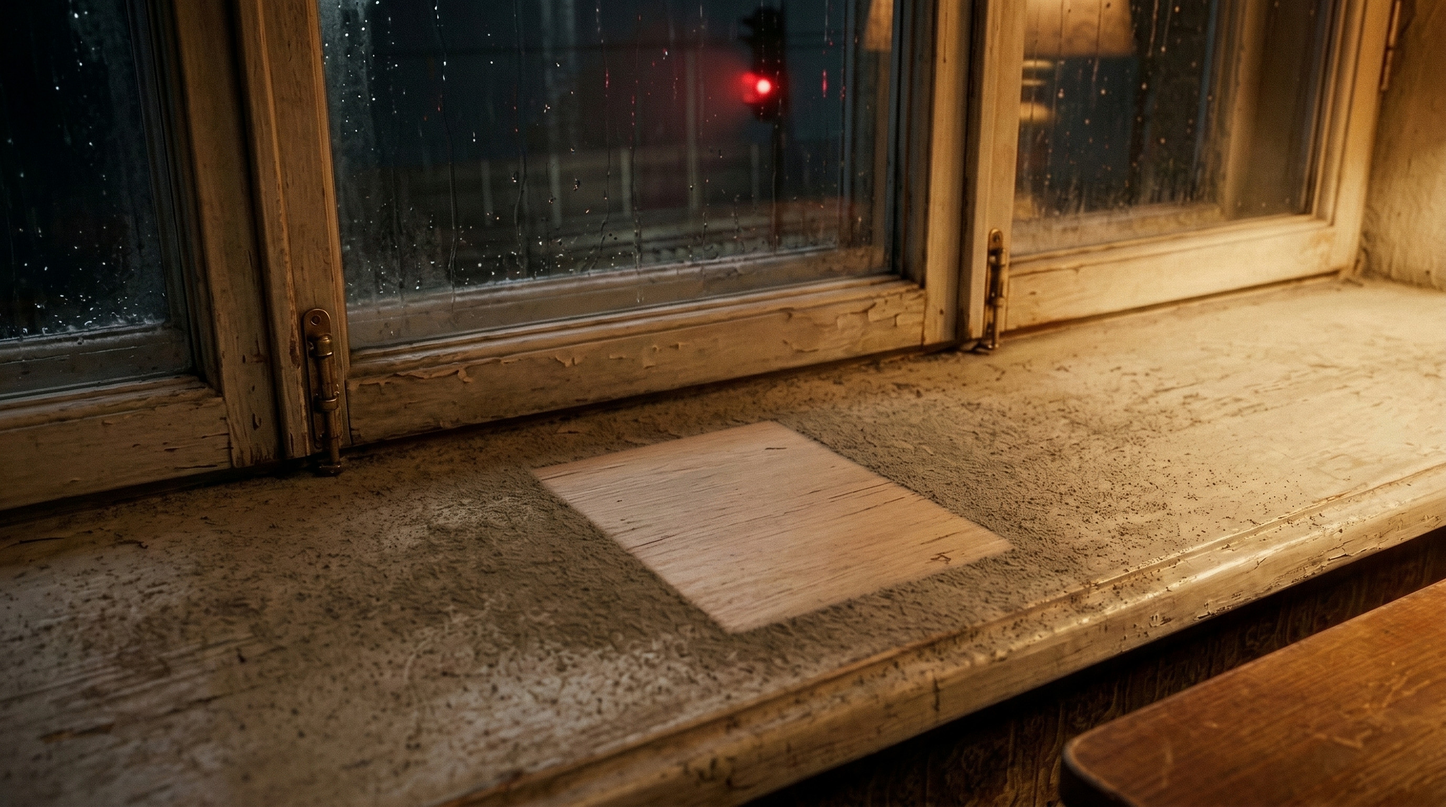
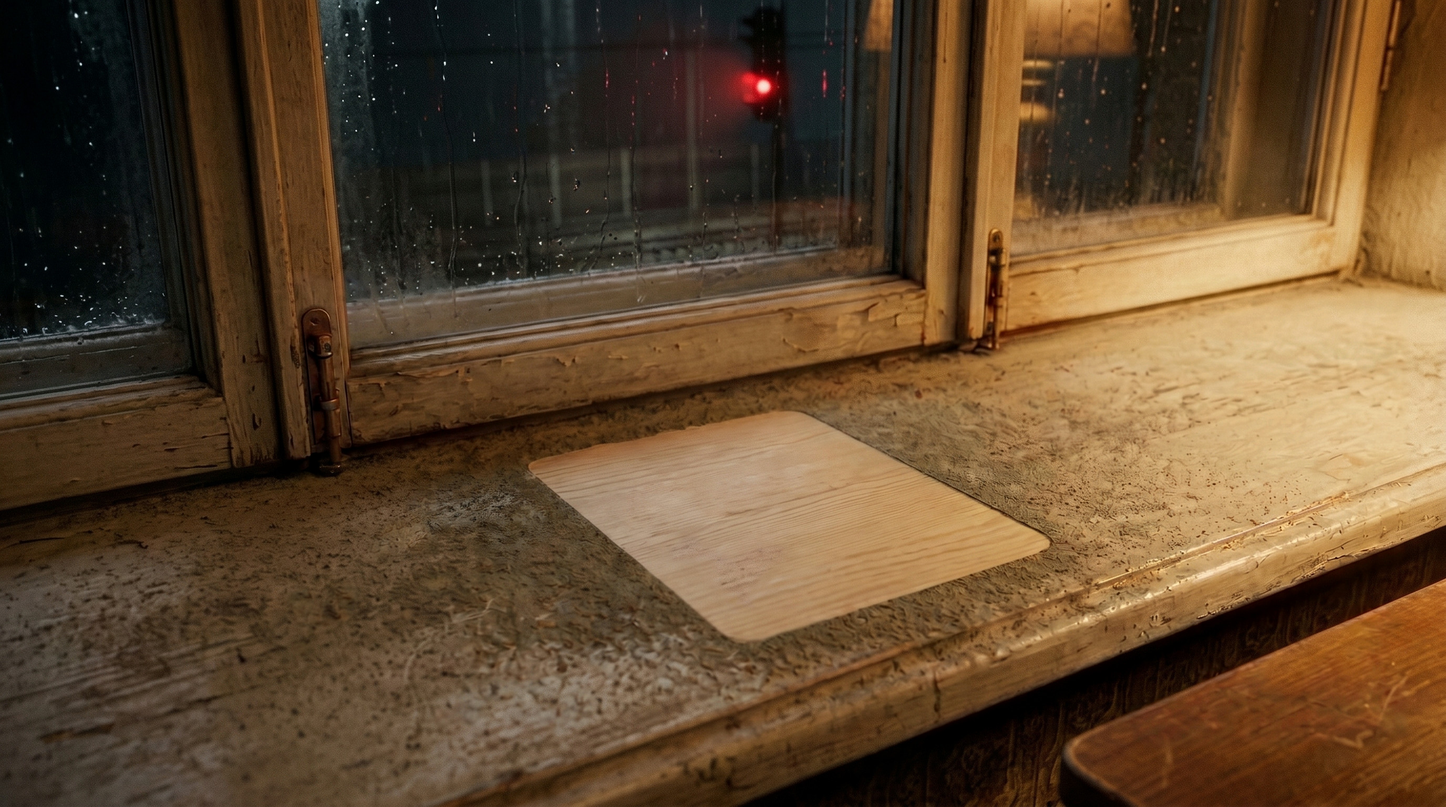
Книга на подоконнике — настоящая, одна и та же во всех сценах
- Фигура, нарисованная кодом, убрана. Книга вписана в сами кадры кухни:
  тёмно-синий потёртый переплёт с закладками, как на крупном плане.
  «Не приходи»: кадры с книгой (ночь/вечер и утро), появляются, когда
  Тихон принёс её; «Приходи»: книга в кадрах всегда (закат и ночь),
  на том же месте подоконника.
- На общем плане книга в одном положении; сдвиг из другого мира виден
  на крупном плане подоконника.
- Картинка осмотра стола в «Приходи»: книга тёмно-синяя, а не бирюзовая.
- След в пыли на крупном плане подоконника — по размеру и углу книги,
  с ровными краями; зона щелчка подогнана.
- Реплики про «лежит криво/наискосок» на общем плане поправлены.

diff --git a/src/scenes/kitchen.js b/src/scenes/kitchen.js
@@ -19,6 +19,10 @@ const BG = {
   pf: A.plate('assets/backgrounds/K-P-2v2-night.jpg', 1376, 768),
   // утро в НП: отдельный рассветный кадр (сухое стекло, туман), выровнен по пикселям с K-NP-1
   npm: A.plate('assets/backgrounds/K-NP-1-morning.jpg', 1376, 768),
+  // те же кадры с Вериной книгой на подоконнике (пиксель в пиксель вне книги). На общем плане книга лежит
+  // в одном положении; её сдвиг из другого мира виден на крупном плане подоконника (I-SILL-NP-2-shifted)
+  npBook: A.plate('assets/backgrounds/K-NP-1-book.jpg', 1376, 768),
+  npmBook: A.plate('assets/backgrounds/K-NP-1-morning-book.jpg', 1376, 768),
 };
 
 // ---------- Магнитные буквы ----------
@@ -173,11 +177,12 @@ function buildNP(time) {
   const night = time === 'night';
   // утро — свой кадр (та же разметка), вечер — ночной кадр чуть светлее
   let s = commonDefs('np') + (time === 'morning' ? BG.npm.image('class="bg"') : B.image(`class="bg bg-${time}"`));
+  // книга на подоконнике (класс book-on-sill)
+  s += time === 'morning' ? BG.npmBook.image('class="bg-book-any"') : BG.npBook.image(`class="bg-book-any bg-${time}"`);
   if (time !== 'morning') s += semaphore(B, [249, 236]);
   // тёплый круг от лампы на столе
   const lamp = B.I(690, 380);
   s += `<circle class="flicker" cx="${lamp[0]}" cy="${lamp[1]}" r="380" fill="url(#knp-lamp)" style="mix-blend-mode:screen"/>`;
-  s += sillBook(B);
   // всё, что дорисовано поверх кадра, — под свет кухни: ночью лампа тёплая и тусклая, утром светлее
   const light = time === 'morning' ? 'brightness(0.88) sepia(0.25)' : 'brightness(0.66) sepia(0.45)';
   s += `<g class="np-props" style="filter:${light}">`;
@@ -209,68 +214,6 @@ function miri(B) {
     <ellipse cx="${x}" cy="${y - h}" rx="${w / 2}" ry="5" fill="#1a1716"/>
     <ellipse class="miri-ring" cx="${x}" cy="${y - h}" rx="${w / 2 - 2}" ry="3.6" fill="none" stroke="#9f8cff" stroke-width="2.4"/>
   </g>`;
-}
-
-// Верина книга на подоконнике (глава 2: Тихон кладёт её туда сам)
-// Лежит плашмя на доске подоконника и повторяет её перспективу: доска уходит вправо-вверх
-// (задний край у рамы: (420,536)→(550,479), передний: (480,560)→(636,483) — наклон ≈ −0.45),
-// глубина доски тут ≈ 50 px; книга — на ~60 % глубины, чуть отступив от рамы.
-// Углы в пикселях кадра (K-NP-1 / K-P-1v2 — пиксель в пиксель): задний левый, задний правый,
-// передний правый, передний левый. Видны верх, передний обрез (страницы) и левый торец.
-const SILL_BOOK_AT = [[472, 521], [540, 491], [564, 505], [496, 535]];
-function sillBook(B, swollen = false) {
-  const P4 = (dy) => SILL_BOOK_AT.map(([x, y]) => B.I(x, y + dy));
-  const top = P4(0);
-  const bottom = P4(swollen ? 9 : 10);
-  const side = [top[3], top[2], bottom[2], bottom[3]].join(' ');
-  // точка на переднем обрезе: t — доля от левого угла к правому
-  const along = (t, dy = 0) => {
-    const [[x3, y3], [x2, y2]] = [SILL_BOOK_AT[3], SILL_BOOK_AT[2]];
-    return B.I(x3 + (x2 - x3) * t, y3 + (y2 - y3) * t + dy);
-  };
-  // тень вытянута вдоль доски (наклон доски ≈ −24°)
-  const [sx, sy] = B.I(520, 522);
-  const shadow = (fill, op, extra = '') => `<ellipse cx="${sx}" cy="${sy}" rx="${52 * B.k}" ry="${12 * B.k}" fill="${fill}" opacity="${op}" transform="rotate(-24 ${sx} ${sy})" ${extra}/>`;
-  // книгу сдвинули в другом мире (класс book-shifted) — у нас она тоже съехала и повёрнута
-  const [px, py] = B.I(518, 513);
-  if (swollen) {
-    // мир П: тот же том, но бирюзовый переплёт и вздувшийся от воды блок страниц (обрез волной)
-    const wave = `M${along(0, 4)} Q${along(0.25, 7)} ${along(0.5, 4)} T${along(1, 4)}`;
-    return `${shadow('#2a1030', 0.35)}
-      <polygon points="${side}" fill="#f1e2cf"/>
-      <path d="${wave}" fill="none" stroke="#b9a18a" stroke-width="1.4"/>
-      <polygon points="${[top[0], top[3], bottom[3], bottom[0]].join(' ')}" fill="#1d3c48"/>
-      <polygon points="${top.join(' ')}" fill="#3f8f98" stroke="#1d3c48" stroke-width="1.4"/>
-      <polygon points="${top.join(' ')}" fill="#ffc1d8" opacity="0.18"/>`;
-  }
-  return sillBookNP(B);
-}
-
-// Мир НП — прежняя книга (пользователю она нравилась больше)
-function sillBookNP(B) {
-  const P4 = (dy) => [B.I(502, 477 + dy), B.I(590, 473 + dy), B.I(603, 487 + dy), B.I(510, 492 + dy)];
-  const top = P4(0);
-  const bottom = P4(6);
-  const side = [top[3], top[2], bottom[2], bottom[3]].join(' ');
-  const [sx, sy] = B.I(556, 494);
-  // книгу сдвинули в другом мире (класс book-shifted) — у нас она тоже съехала и повёрнута
-  const [px, py] = B.I(552, 484);
-  return `<g class="sill-book"><g class="sill-book-pose" style="transform-origin:${px.toFixed(0)}px ${py.toFixed(0)}px">
-    <defs><linearGradient id="sb-cloth" x1="0" y1="0" x2="1" y2="1"><stop offset="0" stop-color="#2d3646"/><stop offset="0.55" stop-color="#232a37"/><stop offset="1" stop-color="#151a22"/></linearGradient>
-    <linearGradient id="sb-lamp" x1="0" y1="0" x2="1" y2="0"><stop offset="0" stop-color="#ffb96b" stop-opacity="0"/><stop offset="1" stop-color="#ffb96b" stop-opacity="0.22"/></linearGradient>
-    <linearGradient id="sb-pages" x1="0" y1="0" x2="0" y2="1"><stop offset="0" stop-color="#fff2d0" stop-opacity="0.35"/><stop offset="1" stop-color="#3a2a14" stop-opacity="0.35"/></linearGradient>
-    <filter id="sb-blur"><feGaussianBlur stdDeviation="4"/></filter></defs>
-    <ellipse cx="${sx}" cy="${sy}" rx="${62 * B.k}" ry="${7 * B.k}" fill="#000" opacity="0.55" filter="url(#sb-blur)"/>
-    <polygon points="${side}" fill="#b9a883"/>
-    <polygon points="${side}" fill="url(#sb-pages)"/>
-    <polygon points="${top.join(' ')}" fill="url(#sb-cloth)" stroke="#0e131c" stroke-width="1" filter="url(#paper-tex)"/>
-    <polygon points="${[top[0], top[3], bottom[3], bottom[0]].join(' ')}" fill="#0e131d"/>
-    <polygon points="${top.join(' ')}" fill="url(#sb-lamp)"/>
-    <!-- потёртые углы и закладки, как на крупном плане -->
-    <polyline points="${top[0]} ${top[1]}" stroke="#6f7a8c" stroke-width="1" opacity="0.5" fill="none"/>
-    <polygon points="${B.I(566, 490)} ${B.I(574, 490)} ${B.I(575, 497)} ${B.I(567, 498)}" fill="#e2d3ae"/>
-    <polygon points="${B.I(583, 489)} ${B.I(590, 488)} ${B.I(592, 494)} ${B.I(584, 495)}" fill="#d8c69c"/>
-  </g></g>`;
 }
 
 // Детский рисунок: дом, поезд над крышей, четыре человечка, один зачёркнут — восковыми мелками
@@ -333,8 +276,7 @@ function buildP(withTwin) {
   const behind = (x) => (withTwin ? `<g mask="url(#kpt-boy)">${x}</g>` : x);
   o += behind(anchor(B, 'kp-photo', [977, 71, 1044, 145]));
   o += behind(paper(B, [1140, 250, 88, 50], -3, '#fbf3ee', ['Купи хлеб!!', '— В.'], 13, '#5a2a6a'));
-  // Верина книга на подоконнике — лежит здесь шесть лет, страницы вздулись
-  o += `<g class="sill-book-p">${sillBook(B, true)}</g>`;
+  // Верина книга на подоконнике лежит здесь шесть лет — она нарисована в самих кадрах кухни
   if (!withTwin) o += letters('pw');
   else {
     // ночью у холодильника двойник: буквы видны везде, кроме места, где он заслоняет дверцу
@@ -586,7 +528,7 @@ export const kitchenPEvening = {
 const SILL = A.plate('assets/backgrounds/I-SILL-NP-2.jpg', 1376, 768);
 const SILL_BOOK = A.plate('assets/backgrounds/I-SILL-NP-2-book.jpg', 1376, 768);
 const SILL_SHIFTED = A.plate('assets/backgrounds/I-SILL-NP-2-shifted.jpg', 1376, 768);
-export const SILL_SPOT = [500, 360, 965, 605]; // чистый прямоугольник, пиксели картинки
+export const SILL_SPOT = [500, 390, 1000, 612]; // чистый прямоугольник, пиксели картинки
 export const sillNP = {
   id: 'sill-np',
   world: 'np',

diff --git a/src/ui/style.css b/src/ui/style.css
@@ -126,12 +126,12 @@ button { font: inherit; color: inherit; }
 .bg-evening { filter: brightness(1.12) sepia(0.12) saturate(1.05); }
 
 /* Состояние мира на сцене (классы от главы) */
-.note-b, .sill-book, .bg-nobook, .bg-book { display: none; }
+.note-b, .bg-nobook, .bg-book, .bg-book-any { display: none; }
 /* ночная кухня П с двойником: до «УХОДИ» буквы вразнобой, после — ряд внизу дверцы */
 .pw-row { display: none; }
 .uhodi-on .pw-row { display: inline; }
 .uhodi-on .pw-home { display: none; }
-.book-on-sill .bg-book { display: inline; }
+.book-on-sill .bg-book, .book-on-sill .bg-book-any { display: inline; }
 /* мир «Приходи», глава 5: Вера в дверях, открытая хлебница, подсказка в книге */
 .bg-nolamp, .bg-open-empty, .bg-vera, .bg-open, .w-hint, .w-ask, .w-4r, .wp-4r, .w-p7, .w-x8, .w-8a, .w-8b, .w-9, .wp-reply, .wp-m2, .anchor-ne { display: none; }
 .lamp-taken .bg-nolamp, .bread-empty .bg-open-empty, .w-4r-on .w-4r, .wp-4r-on .wp-4r, .vera-here .bg-vera, .bread-open .bg-open, .w-hint-on .w-hint, .w-hint-on .w-ask, .w-ask-on .w-ask, .w-p7-on .w-p7,
@@ -145,7 +145,6 @@ button { font: inherit; color: inherit; }
 .bg-book-shifted { display: none; }
 .book-on-sill.book-shifted .bg-book { display: none; }
 .book-on-sill.book-shifted .bg-book-shifted { display: inline; }
-.book-shifted .sill-book-pose { transform: translate(10px, 1px) rotate(-9deg); }
 .book-taken .bg-nobook { display: inline; }
 /* УФ-лампа Веры включена (позже по сюжету) */
 .bg-uv { display: none !important; }
@@ -161,7 +160,7 @@ button { font: inherit; color: inherit; }
 .w-reply-on .w-reply { animation: reveal 4s ease-out; }
 @keyframes reveal { from { opacity: 0; } }
 .note-shift .note-a { display: none; }
-.note-shift .note-b, .book-on-sill .sill-book { display: inline; }
+.note-shift .note-b { display: inline; }
 .frag.found rect { stroke: #ffcf7a; stroke-width: 4px; }
 .miri-ring { opacity: 0.45; }
 .miri-listen .miri-ring { animation: miri 1.6s ease-in-out infinite; }

diff --git a/story/chapters/chapter6.js b/story/chapters/chapter6.js
@@ -167,7 +167,7 @@ export default {
       if (id === 'photo') return { key: 'ch6', lines: ['То самое фото. Здесь оно такое же. Единственное, что здесь такое же.'] };
       if (id === 'fridge') return { key: 'ch6', lines: ['Буквы висят на своих местах. Мой алфавит — у нас на нём до сих пор «УХОДИ».'] };
       if (id === 'mug') return { key: 'ch6', lines: ['Верина белая кружка со сколотым краем. Здесь из неё никто не пьёт.', 'У нас Вера пьёт из неё кофе каждое утро. Скол на краю я так и не зашлифовал — она говорит, так и надо.'] };
-      if (id === 'sill') return { key: 'ch6', lines: ['Книга лежит криво. Это у нас её за ужином двигали. А тут она гладкая — ни одной волны от воды.'] };
+      if (id === 'sill') return { key: 'ch6', lines: ['Верина книга — на том же месте, что у нас. Это мы её за ужином двигали. А тут она гладкая — ни одной волны от воды.'] };
     }
 
     // ---------- комната двойника ----------

diff --git a/story/chapters/chapter3.js b/story/chapters/chapter3.js
@@ -54,7 +54,7 @@ export default {
 
   intro: [
     ['card', 'Той же ночью', '23:10 · за окном идёт товарный', 'np'],
-    ['think', 'Мама на смене до утра. Книга так и лежит на кухонном подоконнике — наискосок, как её оставили.'],
+    ['think', 'Мама на смене до утра. Книга так и лежит на кухонном подоконнике — сдвинутая со своего следа, как её оставили.'],
     ['think', 'Оттуда доходит. Может, дойдёт и отсюда.'],
   ],
 
